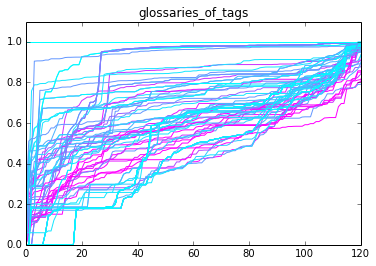
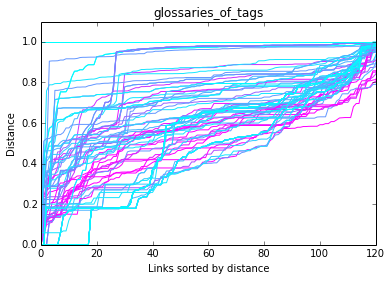
More threshold, images labeled and data preprocessing

diff --git a/doc/final report/chapters/4_method.tex b/doc/final report/chapters/4_method.tex
@@ -1,7 +1,7 @@
 \section{Method}
 
 \subsection{Data preprocessing}
-Bla.
+Starfish text content is serialized as HTML, a format which is not suitable for calculating semantical similarity. Before processing, we sanitize the data by removing HTML tags and entities, convert unicode characters to their closest ASCII representation.
 
 \subsection{Text vectorization}
 \subsubsection{Textvectorizer}
@@ -35,11 +35,6 @@ s_{i,j} = \frac{f_{i,j}}{f_i + f_j - f_{i,j}}
 The glossaries of tags approach is also based on the intuition certain tags cover overlapping concepts, something which is not always directly reflected by tag frequencies. In the Starfish system, a tag is expected to have a glossary; a short English description of the concept a tag. If tags are related then the glossaries of those will contain terms and words more similar to each other than to other tags' glossaries. The glossaries of tags approach aims to use the network between, visible through glossary similarity, to calculate document similarity.
 The vectorizer creates a document descriptor based on the bag of words model for all glossaries. Each tag with a glossary is transformed into a vector using TF-IDF, these vectors are then summed (and normalized?) to create the descriptor for a document.
 
-\begin{itemize}
-\item Motivation: find underlying network between tags by using their glossaries
-\item Implementation: hybrid form of text and tag vectorizer
-\end{itemize}
-
 \subsection{Distance metrics}
 Short description of how these were implemented
 
@@ -47,18 +42,24 @@ Short description of how these were implemented
 Explain motivation, theory and implementation 
 
 \subsection{Thresholds}
-In figure~\ref{fig:thresholds} the distances for nearby documents we recommend can be viewed. On the horizontal axis, the documents are shown in sorted order.  The vertical axis displays the cosine distance for that document has from the new document. Different d
+After creating the descriptors for a document and finding a new document's nearest neighbors, a subpart of those links needs to be returned by the linker application. An average document in Starfish has x links. To create a dynamic threshold which returns similar a similar amount of documents, a document from the Starfish data is extracted and then to re-inserted to test the number of links the system returns to the number of links the document had in the original system.
 
-It is clear that different vecotrizers return different curves for  increase of distance. The lines for documents with zero links do not seem to follow a specific pattern, the lines for documents with more links are better clustered. 
-
+In figure~\ref{fig:thresholds}, the distances for nearby documents the system recommends can be viewed. On the horizontal axis, the documents are shown in sorted order. The vertical axis displays the cosine distance for that document has from the new document. The patterns for all vectorizers seem very noisy, especially for documents that had very little links in the original document. The documents which had more links in the original dataset seem to be less scattered and more plausible to fit to a line.
 
 \begin{figure}[h]
-\subfigure[Weighted tags]{	\includegraphics[width =0.45\textwidth]{images/threshold_weighted_tag} }
-\subfigure[text]{	\includegraphics[width =0.45\textwidth]{images/threshold_text} }
-\subfigure[tag smoothing]{	\includegraphics[width =0.45\textwidth]{images/threshold_smoothing} }
-\subfigure[glossaries]{	\includegraphics[width =0.45\textwidth]{images/threshold_glossary} }
+\subfigure[Weighted tags]{	\includegraphics[width =0.45\textwidth]{images/threshold_weighted_tag}	}
+\subfigure[text]{				\includegraphics[width =0.45\textwidth]{images/threshold_text} 			}
+\subfigure[tag smoothing]{	\includegraphics[width =0.45\textwidth]{images/threshold_smoothing} 		}
+\subfigure[glossaries]{		\includegraphics[width =0.45\textwidth]{images/threshold_glossary} 		}
 \caption{The blue purple gradient represents documents with 0 links (blue) to >10 links (purple)}
 \label{fig:thresholds}
 \end{figure}
+
+The the threshold should depend on multiple factors which mostly depend on the setting in which the document linker will be used. Two major factors determine how the threshold should work.
+\begin{enumerate}[1.]
+	\item The degree of certainty we expect from the returned documents.
+	\item The maximum number of documents that should be returned for a specific application.
+\end{enumerate}
+If the system is used to directly create the links into the Starfish system, the first aspect is very important. Only documents with a very high degree of linking certainty should then be returned, the amount should be based on the contents of the current system. If the system will be used to create recommendations which a user must accept or reject, the first aspect becomes less important and the system should return an amount of links which can quickly be reviewed by users.
 
 Explan motivation, theory and implementation
